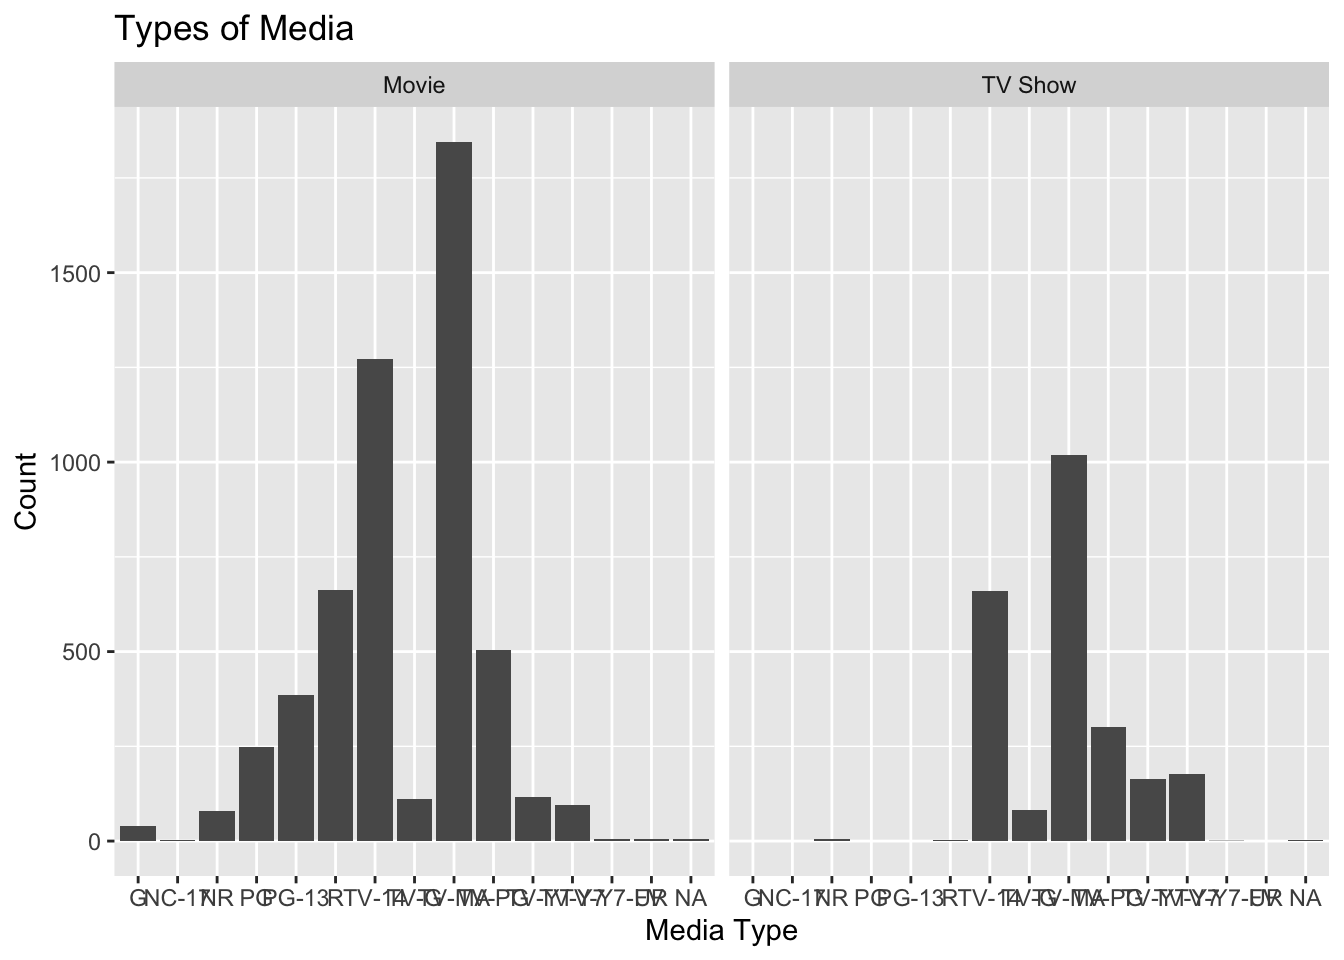
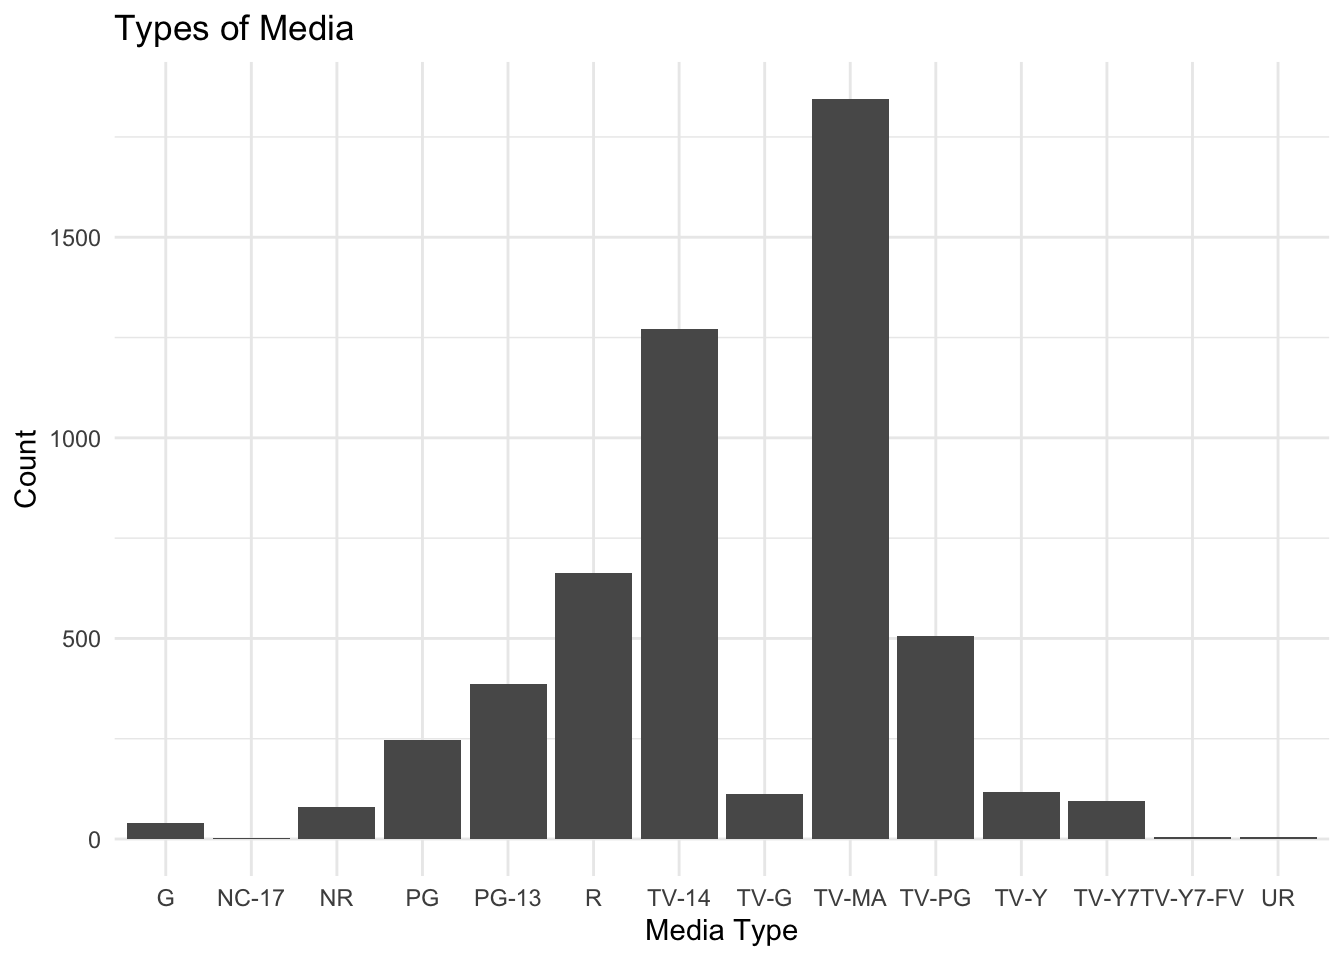
Done!

diff --git a/docs/Project 2.html b/docs/Project 2.html
@@ -211,12 +211,14 @@ pre > code.sourceCode > span > a:first-child::before { text-decoration: underlin
 <span id="cb1-7"><a href="#cb1-7" aria-hidden="true" tabindex="-1"></a>netflix <span class="ot">&lt;-</span> tuesdata<span class="sc">$</span>netflix</span>
 <span id="cb1-8"><a href="#cb1-8" aria-hidden="true" tabindex="-1"></a></span>
 <span id="cb1-9"><a href="#cb1-9" aria-hidden="true" tabindex="-1"></a>netflix <span class="sc">|&gt;</span></span>
-<span id="cb1-10"><a href="#cb1-10" aria-hidden="true" tabindex="-1"></a>  <span class="fu">group_by</span>(type, rating) <span class="sc">|&gt;</span></span>
-<span id="cb1-11"><a href="#cb1-11" aria-hidden="true" tabindex="-1"></a>  <span class="fu">summarize</span>(<span class="at">count =</span> <span class="fu">n</span>()) <span class="sc">|&gt;</span></span>
-<span id="cb1-12"><a href="#cb1-12" aria-hidden="true" tabindex="-1"></a>  <span class="fu">ggplot</span>(<span class="fu">aes</span>(<span class="at">x =</span> rating, <span class="at">y =</span> count)) <span class="sc">+</span> </span>
-<span id="cb1-13"><a href="#cb1-13" aria-hidden="true" tabindex="-1"></a>    <span class="fu">geom_bar</span>(<span class="at">stat =</span> <span class="st">"identity"</span>) <span class="sc">+</span></span>
-<span id="cb1-14"><a href="#cb1-14" aria-hidden="true" tabindex="-1"></a>    <span class="fu">labs</span>(<span class="at">x =</span> <span class="st">"Media Type"</span>, <span class="at">y =</span> <span class="st">"Count"</span>, <span class="at">title =</span> <span class="st">"Types of Media"</span>) <span class="sc">+</span></span>
-<span id="cb1-15"><a href="#cb1-15" aria-hidden="true" tabindex="-1"></a>    <span class="fu">facet_wrap</span>(<span class="sc">~</span> type)</span></code><button title="Copy to Clipboard" class="code-copy-button"><i class="bi"></i></button></pre></div>
+<span id="cb1-10"><a href="#cb1-10" aria-hidden="true" tabindex="-1"></a>  <span class="fu">filter</span>(<span class="sc">!</span><span class="fu">is.na</span>(rating), type <span class="sc">==</span> <span class="st">"Movie"</span>) <span class="sc">|&gt;</span></span>
+<span id="cb1-11"><a href="#cb1-11" aria-hidden="true" tabindex="-1"></a>  <span class="fu">group_by</span>(type, rating) <span class="sc">|&gt;</span></span>
+<span id="cb1-12"><a href="#cb1-12" aria-hidden="true" tabindex="-1"></a>  <span class="fu">summarize</span>(<span class="at">count =</span> <span class="fu">n</span>()) <span class="sc">|&gt;</span></span>
+<span id="cb1-13"><a href="#cb1-13" aria-hidden="true" tabindex="-1"></a>  <span class="fu">filter</span>(count <span class="sc">&gt;</span> <span class="dv">0</span>) <span class="sc">|&gt;</span></span>
+<span id="cb1-14"><a href="#cb1-14" aria-hidden="true" tabindex="-1"></a>  <span class="fu">ggplot</span>(<span class="fu">aes</span>(<span class="at">x =</span> rating, <span class="at">y =</span> count)) <span class="sc">+</span> </span>
+<span id="cb1-15"><a href="#cb1-15" aria-hidden="true" tabindex="-1"></a>    <span class="fu">geom_bar</span>(<span class="at">stat =</span> <span class="st">"identity"</span>) <span class="sc">+</span></span>
+<span id="cb1-16"><a href="#cb1-16" aria-hidden="true" tabindex="-1"></a>    <span class="fu">labs</span>(<span class="at">x =</span> <span class="st">"Media Type"</span>, <span class="at">y =</span> <span class="st">"Count"</span>, <span class="at">title =</span> <span class="st">"Types of Media"</span>) <span class="sc">+</span></span>
+<span id="cb1-17"><a href="#cb1-17" aria-hidden="true" tabindex="-1"></a>    <span class="fu">theme_minimal</span>()</span></code><button title="Copy to Clipboard" class="code-copy-button"><i class="bi"></i></button></pre></div>
 <div class="cell-output-display">
 <div>
 <figure class="figure">
@@ -225,34 +227,74 @@ pre > code.sourceCode > span > a:first-child::before { text-decoration: underlin
 </div>
 </div>
 </div>
-<p>These graphs convey the number of movies and TV shows for each rating.</p>
+<p>These graphs convey the distrubution of movies for each rating.</p>
 <div class="cell">
-<div class="sourceCode cell-code" id="cb2"><pre class="sourceCode r code-with-copy"><code class="sourceCode r"><span id="cb2-1"><a href="#cb2-1" aria-hidden="true" tabindex="-1"></a>clean_genres <span class="ot">&lt;-</span> <span class="fu">str_remove_all</span>(netflix<span class="sc">$</span>listed_in, <span class="st">",.*"</span>) </span></code><button title="Copy to Clipboard" class="code-copy-button"><i class="bi"></i></button></pre></div>
+<div class="sourceCode cell-code" id="cb2"><pre class="sourceCode r code-with-copy"><code class="sourceCode r"><span id="cb2-1"><a href="#cb2-1" aria-hidden="true" tabindex="-1"></a>netflix <span class="sc">|&gt;</span></span>
+<span id="cb2-2"><a href="#cb2-2" aria-hidden="true" tabindex="-1"></a>  <span class="fu">mutate</span>(<span class="at">clean_genres =</span> <span class="fu">str_remove_all</span>(netflix<span class="sc">$</span>listed_in, <span class="st">",.*"</span>))</span></code><button title="Copy to Clipboard" class="code-copy-button"><i class="bi"></i></button></pre></div>
+<div class="cell-output cell-output-stdout">
+<pre><code># A tibble: 7,787 × 13
+   show_id type    title director   cast  country date_added release_year rating
+   &lt;chr&gt;   &lt;chr&gt;   &lt;chr&gt; &lt;chr&gt;      &lt;chr&gt; &lt;chr&gt;   &lt;chr&gt;             &lt;dbl&gt; &lt;chr&gt; 
+ 1 s1      TV Show 3%    &lt;NA&gt;       João… Brazil  August 14…         2020 TV-MA 
+ 2 s2      Movie   7:19  Jorge Mic… Demi… Mexico  December …         2016 TV-MA 
+ 3 s3      Movie   23:59 Gilbert C… Tedd… Singap… December …         2011 R     
+ 4 s4      Movie   9     Shane Ack… Elij… United… November …         2009 PG-13 
+ 5 s5      Movie   21    Robert Lu… Jim … United… January 1…         2008 PG-13 
+ 6 s6      TV Show 46    Serdar Ak… Erda… Turkey  July 1, 2…         2016 TV-MA 
+ 7 s7      Movie   122   Yasir Al … Amin… Egypt   June 1, 2…         2019 TV-MA 
+ 8 s8      Movie   187   Kevin Rey… Samu… United… November …         1997 R     
+ 9 s9      Movie   706   Shravan K… Divy… India   April 1, …         2019 TV-14 
+10 s10     Movie   1920  Vikram Bh… Rajn… India   December …         2008 TV-MA 
+# ℹ 7,777 more rows
+# ℹ 4 more variables: duration &lt;chr&gt;, listed_in &lt;chr&gt;, description &lt;chr&gt;,
+#   clean_genres &lt;chr&gt;</code></pre>
+</div>
 </div>
 <p>This function eliminates the cross-listing of genres to make for an easier analysis.</p>
-<p>I was curious</p>
 <div class="cell">
-<div class="sourceCode cell-code" id="cb3"><pre class="sourceCode r code-with-copy"><code class="sourceCode r"><span id="cb3-1"><a href="#cb3-1" aria-hidden="true" tabindex="-1"></a><span class="fu">sum</span>(<span class="fu">str_detect</span>(netflix<span class="sc">$</span>country, <span class="st">"Singapore|China|India|South Korea|Indonesia|Japan|Taiwan|Philippines"</span>) <span class="sc">&amp;</span> <span class="sc">!</span><span class="fu">is.na</span>(netflix<span class="sc">$</span>country))</span></code><button title="Copy to Clipboard" class="code-copy-button"><i class="bi"></i></button></pre></div>
+<div class="sourceCode cell-code" id="cb4"><pre class="sourceCode r code-with-copy"><code class="sourceCode r"><span id="cb4-1"><a href="#cb4-1" aria-hidden="true" tabindex="-1"></a>r_comedies <span class="ot">&lt;-</span> netflix <span class="sc">|&gt;</span></span>
+<span id="cb4-2"><a href="#cb4-2" aria-hidden="true" tabindex="-1"></a>  <span class="fu">mutate</span>(<span class="at">clean_genres =</span> <span class="fu">str_remove_all</span>(listed_in, <span class="st">",.*"</span>)) <span class="sc">|&gt;</span></span>
+<span id="cb4-3"><a href="#cb4-3" aria-hidden="true" tabindex="-1"></a>  <span class="fu">filter</span>(<span class="fu">str_detect</span>(clean_genres, <span class="st">"Comedies"</span>)) <span class="sc">|&gt;</span></span>
+<span id="cb4-4"><a href="#cb4-4" aria-hidden="true" tabindex="-1"></a>  <span class="fu">summarize</span>(<span class="at">percent_r =</span> <span class="fu">mean</span>(rating <span class="sc">==</span> <span class="st">"R"</span>) <span class="sc">*</span> <span class="dv">100</span>)</span>
+<span id="cb4-5"><a href="#cb4-5" aria-hidden="true" tabindex="-1"></a><span class="fu">print</span>(r_comedies)</span></code><button title="Copy to Clipboard" class="code-copy-button"><i class="bi"></i></button></pre></div>
+<div class="cell-output cell-output-stdout">
+<pre><code># A tibble: 1 × 1
+  percent_r
+      &lt;dbl&gt;
+1      10.6</code></pre>
+</div>
+</div>
+<p>10.6% of all comedies are Rated R- I predicted higher!</p>
+<div class="cell">
+<div class="sourceCode cell-code" id="cb6"><pre class="sourceCode r code-with-copy"><code class="sourceCode r"><span id="cb6-1"><a href="#cb6-1" aria-hidden="true" tabindex="-1"></a>num_the <span class="ot">&lt;-</span> <span class="fu">length</span>(<span class="fu">grep</span>(<span class="st">"^The "</span>, netflix<span class="sc">$</span>title, <span class="at">value =</span> <span class="cn">TRUE</span>))</span>
+<span id="cb6-2"><a href="#cb6-2" aria-hidden="true" tabindex="-1"></a><span class="fu">print</span>(num_the)</span></code><button title="Copy to Clipboard" class="code-copy-button"><i class="bi"></i></button></pre></div>
+<div class="cell-output cell-output-stdout">
+<pre><code>[1] 982</code></pre>
+</div>
+</div>
+<p>I was curious how many shows and movies start with “The”. I am surprised to find only 982!</p>
+<div class="cell">
+<div class="sourceCode cell-code" id="cb8"><pre class="sourceCode r code-with-copy"><code class="sourceCode r"><span id="cb8-1"><a href="#cb8-1" aria-hidden="true" tabindex="-1"></a><span class="fu">sum</span>(<span class="fu">str_detect</span>(netflix<span class="sc">$</span>country, <span class="st">"Singapore|China|India|South Korea|Indonesia|Japan|Taiwan|Philippines"</span>) <span class="sc">&amp;</span> <span class="sc">!</span><span class="fu">is.na</span>(netflix<span class="sc">$</span>country))</span></code><button title="Copy to Clipboard" class="code-copy-button"><i class="bi"></i></button></pre></div>
 <div class="cell-output cell-output-stdout">
 <pre><code>[1] 1877</code></pre>
 </div>
 </div>
-<p>I am curious how much Netflix content comes from Asian production. str_detect lets us know that 1877 of the shows and movies on Netflix are from Asia.</p>
+<p>I was wondering how much Netflix content comes from Asian production. str_detect lets us know that 1877 of the shows and movies on Netflix are from Asia.</p>
 <div class="cell">
-<div class="sourceCode cell-code" id="cb5"><pre class="sourceCode r code-with-copy"><code class="sourceCode r"><span id="cb5-1"><a href="#cb5-1" aria-hidden="true" tabindex="-1"></a>asia <span class="ot">&lt;-</span> <span class="fu">c</span>(<span class="st">"Singapore"</span>, <span class="st">"China"</span>, <span class="st">"India"</span>, <span class="st">"South Korea"</span>, <span class="st">"Indonesia"</span>, <span class="st">"Japan"</span>, <span class="st">"Taiwan"</span>, <span class="st">"Philippines"</span>)</span>
-<span id="cb5-2"><a href="#cb5-2" aria-hidden="true" tabindex="-1"></a></span>
-<span id="cb5-3"><a href="#cb5-3" aria-hidden="true" tabindex="-1"></a>netflix <span class="sc">|&gt;</span></span>
-<span id="cb5-4"><a href="#cb5-4" aria-hidden="true" tabindex="-1"></a>  <span class="fu">filter</span>(country <span class="sc">%in%</span> <span class="fu">c</span>(asia, <span class="st">"United States"</span>, <span class="st">"United Kingdom"</span>)) <span class="sc">|&gt;</span></span>
-<span id="cb5-5"><a href="#cb5-5" aria-hidden="true" tabindex="-1"></a>  <span class="fu">mutate</span>(<span class="at">country =</span> <span class="fu">ifelse</span>(<span class="fu">str_detect</span>(country, <span class="fu">paste</span>(asia, <span class="at">collapse =</span> <span class="st">"|"</span>)), <span class="st">"Asia"</span>, country)) <span class="sc">|&gt;</span></span>
-<span id="cb5-6"><a href="#cb5-6" aria-hidden="true" tabindex="-1"></a>  <span class="fu">group_by</span>(type, country) <span class="sc">|&gt;</span></span>
-<span id="cb5-7"><a href="#cb5-7" aria-hidden="true" tabindex="-1"></a>  <span class="fu">summarize</span>(<span class="at">count =</span> <span class="fu">n</span>()) <span class="sc">|&gt;</span></span>
-<span id="cb5-8"><a href="#cb5-8" aria-hidden="true" tabindex="-1"></a>  <span class="fu">ggplot</span>(<span class="fu">aes</span>(<span class="at">x =</span> type, <span class="at">y =</span> count, <span class="at">fill =</span> country)) <span class="sc">+</span></span>
-<span id="cb5-9"><a href="#cb5-9" aria-hidden="true" tabindex="-1"></a>  <span class="fu">geom_bar</span>(<span class="at">stat =</span> <span class="st">"identity"</span>) <span class="sc">+</span></span>
-<span id="cb5-10"><a href="#cb5-10" aria-hidden="true" tabindex="-1"></a>  <span class="fu">labs</span>(<span class="at">title =</span> <span class="st">"Movies and TV Shows from Asia, UK, and USA "</span>)</span></code><button title="Copy to Clipboard" class="code-copy-button"><i class="bi"></i></button></pre></div>
+<div class="sourceCode cell-code" id="cb10"><pre class="sourceCode r code-with-copy"><code class="sourceCode r"><span id="cb10-1"><a href="#cb10-1" aria-hidden="true" tabindex="-1"></a>asia <span class="ot">&lt;-</span> <span class="fu">c</span>(<span class="st">"Singapore"</span>, <span class="st">"China"</span>, <span class="st">"India"</span>, <span class="st">"South Korea"</span>, <span class="st">"Indonesia"</span>, <span class="st">"Japan"</span>, <span class="st">"Taiwan"</span>, <span class="st">"Philippines"</span>)</span>
+<span id="cb10-2"><a href="#cb10-2" aria-hidden="true" tabindex="-1"></a></span>
+<span id="cb10-3"><a href="#cb10-3" aria-hidden="true" tabindex="-1"></a>netflix <span class="sc">|&gt;</span></span>
+<span id="cb10-4"><a href="#cb10-4" aria-hidden="true" tabindex="-1"></a>  <span class="fu">filter</span>(country <span class="sc">%in%</span> <span class="fu">c</span>(asia, <span class="st">"United States"</span>, <span class="st">"United Kingdom"</span>)) <span class="sc">|&gt;</span></span>
+<span id="cb10-5"><a href="#cb10-5" aria-hidden="true" tabindex="-1"></a>  <span class="fu">mutate</span>(<span class="at">country =</span> <span class="fu">ifelse</span>(<span class="fu">str_detect</span>(country, <span class="fu">paste</span>(asia, <span class="at">collapse =</span> <span class="st">"|"</span>)), <span class="st">"Asia"</span>, country)) <span class="sc">|&gt;</span></span>
+<span id="cb10-6"><a href="#cb10-6" aria-hidden="true" tabindex="-1"></a>  <span class="fu">group_by</span>(type, country) <span class="sc">|&gt;</span></span>
+<span id="cb10-7"><a href="#cb10-7" aria-hidden="true" tabindex="-1"></a>  <span class="fu">summarize</span>(<span class="at">count =</span> <span class="fu">n</span>()) <span class="sc">|&gt;</span></span>
+<span id="cb10-8"><a href="#cb10-8" aria-hidden="true" tabindex="-1"></a>  <span class="fu">ggplot</span>(<span class="fu">aes</span>(<span class="at">x =</span> type, <span class="at">y =</span> count, <span class="at">fill =</span> country)) <span class="sc">+</span></span>
+<span id="cb10-9"><a href="#cb10-9" aria-hidden="true" tabindex="-1"></a>  <span class="fu">geom_bar</span>(<span class="at">stat =</span> <span class="st">"identity"</span>) <span class="sc">+</span></span>
+<span id="cb10-10"><a href="#cb10-10" aria-hidden="true" tabindex="-1"></a>  <span class="fu">labs</span>(<span class="at">title =</span> <span class="st">"Movies and TV Shows from Asia, UK, and USA "</span>)</span></code><button title="Copy to Clipboard" class="code-copy-button"><i class="bi"></i></button></pre></div>
 <div class="cell-output-display">
 <div>
 <figure class="figure">
-<p><img src="Project-2_files/figure-html/unnamed-chunk-5-1.png" class="img-fluid figure-img" width="672"></p>
+<p><img src="Project-2_files/figure-html/unnamed-chunk-6-1.png" class="img-fluid figure-img" width="672"></p>
 </figure>
 </div>
 </div>

diff --git a/docs/TidyTuesday1.html b/docs/TidyTuesday1.html
@@ -142,6 +142,10 @@ pre > code.sourceCode > span > a:first-child::before { text-decoration: underlin
     <a class="dropdown-item" href="./TidyTuesday2.html">
  <span class="dropdown-text">World Heritage Sites</span></a>
   </li>  
+        <li>
+    <a class="dropdown-item" href="./Project 2.html">
+ <span class="dropdown-text">Project 2</span></a>
+  </li>  
     </ul>
   </li>
 </ul>
@@ -202,12 +206,12 @@ pre > code.sourceCode > span > a:first-child::before { text-decoration: underlin
 <span id="cb1-2"><a href="#cb1-2" aria-hidden="true" tabindex="-1"></a></span>
 <span id="cb1-3"><a href="#cb1-3" aria-hidden="true" tabindex="-1"></a>tuesdata <span class="ot">&lt;-</span> tidytuesdayR<span class="sc">::</span><span class="fu">tt_load</span>(<span class="st">'2023-08-22'</span>)</span>
 <span id="cb1-4"><a href="#cb1-4" aria-hidden="true" tabindex="-1"></a>population <span class="ot">&lt;-</span> tuesdata<span class="sc">$</span>population</span>
-<span id="cb1-5"><a href="#cb1-5" aria-hidden="true" tabindex="-1"></a>desired_variables <span class="ot">&lt;-</span> population <span class="sc">%&gt;%</span></span>
+<span id="cb1-5"><a href="#cb1-5" aria-hidden="true" tabindex="-1"></a>desired_variables <span class="ot">&lt;-</span> population <span class="sc">|&gt;</span></span>
 <span id="cb1-6"><a href="#cb1-6" aria-hidden="true" tabindex="-1"></a>     <span class="fu">select</span>(year, coa_name, refugees, asylum_seekers)</span>
-<span id="cb1-7"><a href="#cb1-7" aria-hidden="true" tabindex="-1"></a>germany_data <span class="ot">&lt;-</span> desired_variables <span class="sc">%&gt;%</span></span>
+<span id="cb1-7"><a href="#cb1-7" aria-hidden="true" tabindex="-1"></a>germany_data <span class="ot">&lt;-</span> desired_variables <span class="sc">|&gt;</span></span>
 <span id="cb1-8"><a href="#cb1-8" aria-hidden="true" tabindex="-1"></a>     <span class="fu">filter</span>(coa_name <span class="sc">==</span> <span class="st">"Germany"</span>)</span>
-<span id="cb1-9"><a href="#cb1-9" aria-hidden="true" tabindex="-1"></a>summary_germany <span class="ot">&lt;-</span> germany_data <span class="sc">%&gt;%</span></span>
-<span id="cb1-10"><a href="#cb1-10" aria-hidden="true" tabindex="-1"></a>     <span class="fu">group_by</span>(year) <span class="sc">%&gt;%</span></span>
+<span id="cb1-9"><a href="#cb1-9" aria-hidden="true" tabindex="-1"></a>summary_germany <span class="ot">&lt;-</span> germany_data <span class="sc">|&gt;</span></span>
+<span id="cb1-10"><a href="#cb1-10" aria-hidden="true" tabindex="-1"></a>     <span class="fu">group_by</span>(year) <span class="sc">|&gt;</span></span>
 <span id="cb1-11"><a href="#cb1-11" aria-hidden="true" tabindex="-1"></a>     <span class="fu">summarize</span>(</span>
 <span id="cb1-12"><a href="#cb1-12" aria-hidden="true" tabindex="-1"></a>         <span class="at">total_refugees =</span> <span class="fu">sum</span>(refugees, <span class="at">na.rm =</span> <span class="cn">TRUE</span>),</span>
 <span id="cb1-13"><a href="#cb1-13" aria-hidden="true" tabindex="-1"></a>         <span class="at">total_asylum_seekers =</span> <span class="fu">sum</span>(asylum_seekers, <span class="at">na.rm =</span> <span class="cn">TRUE</span>),</span>
